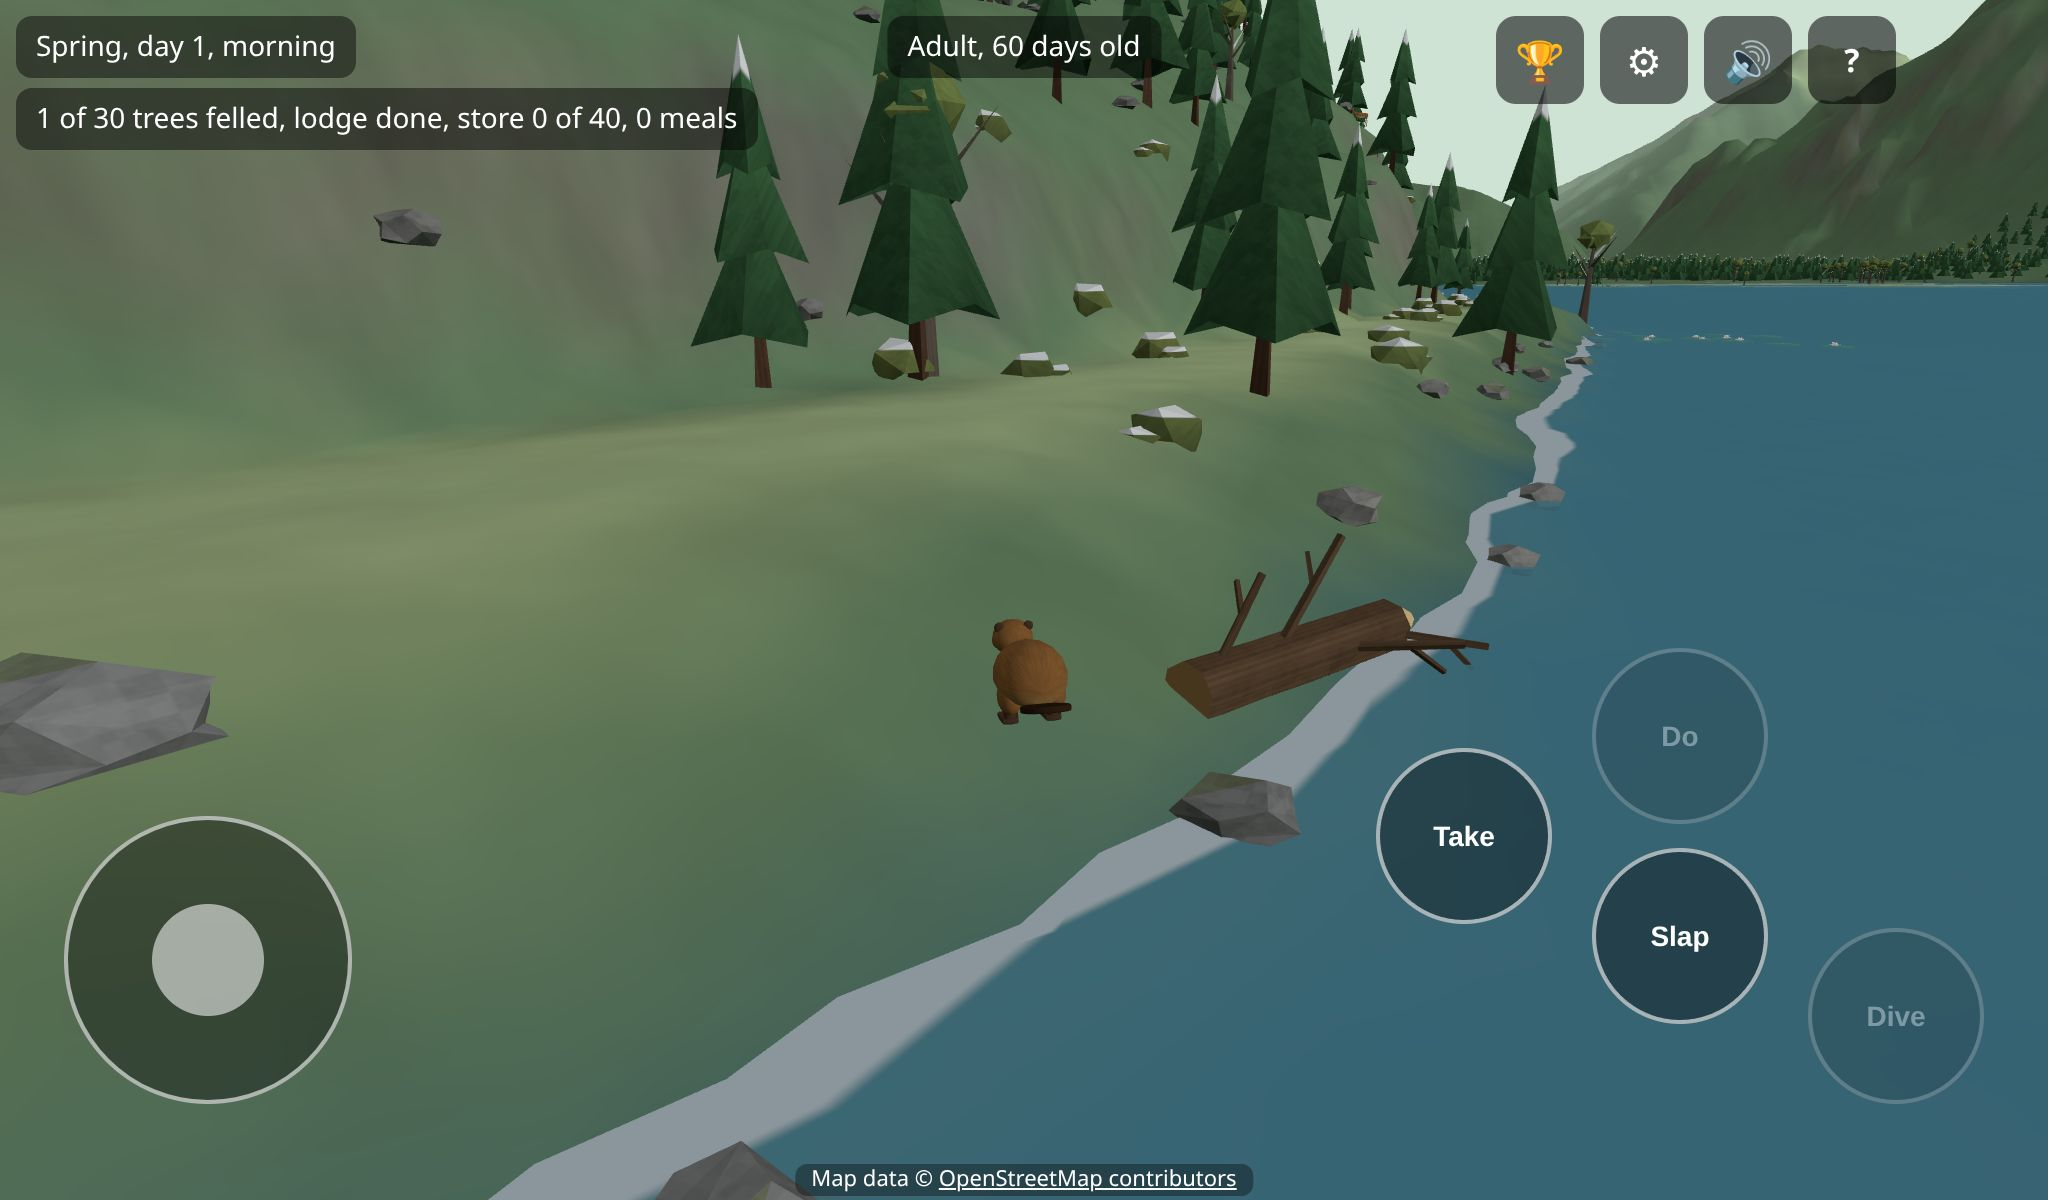
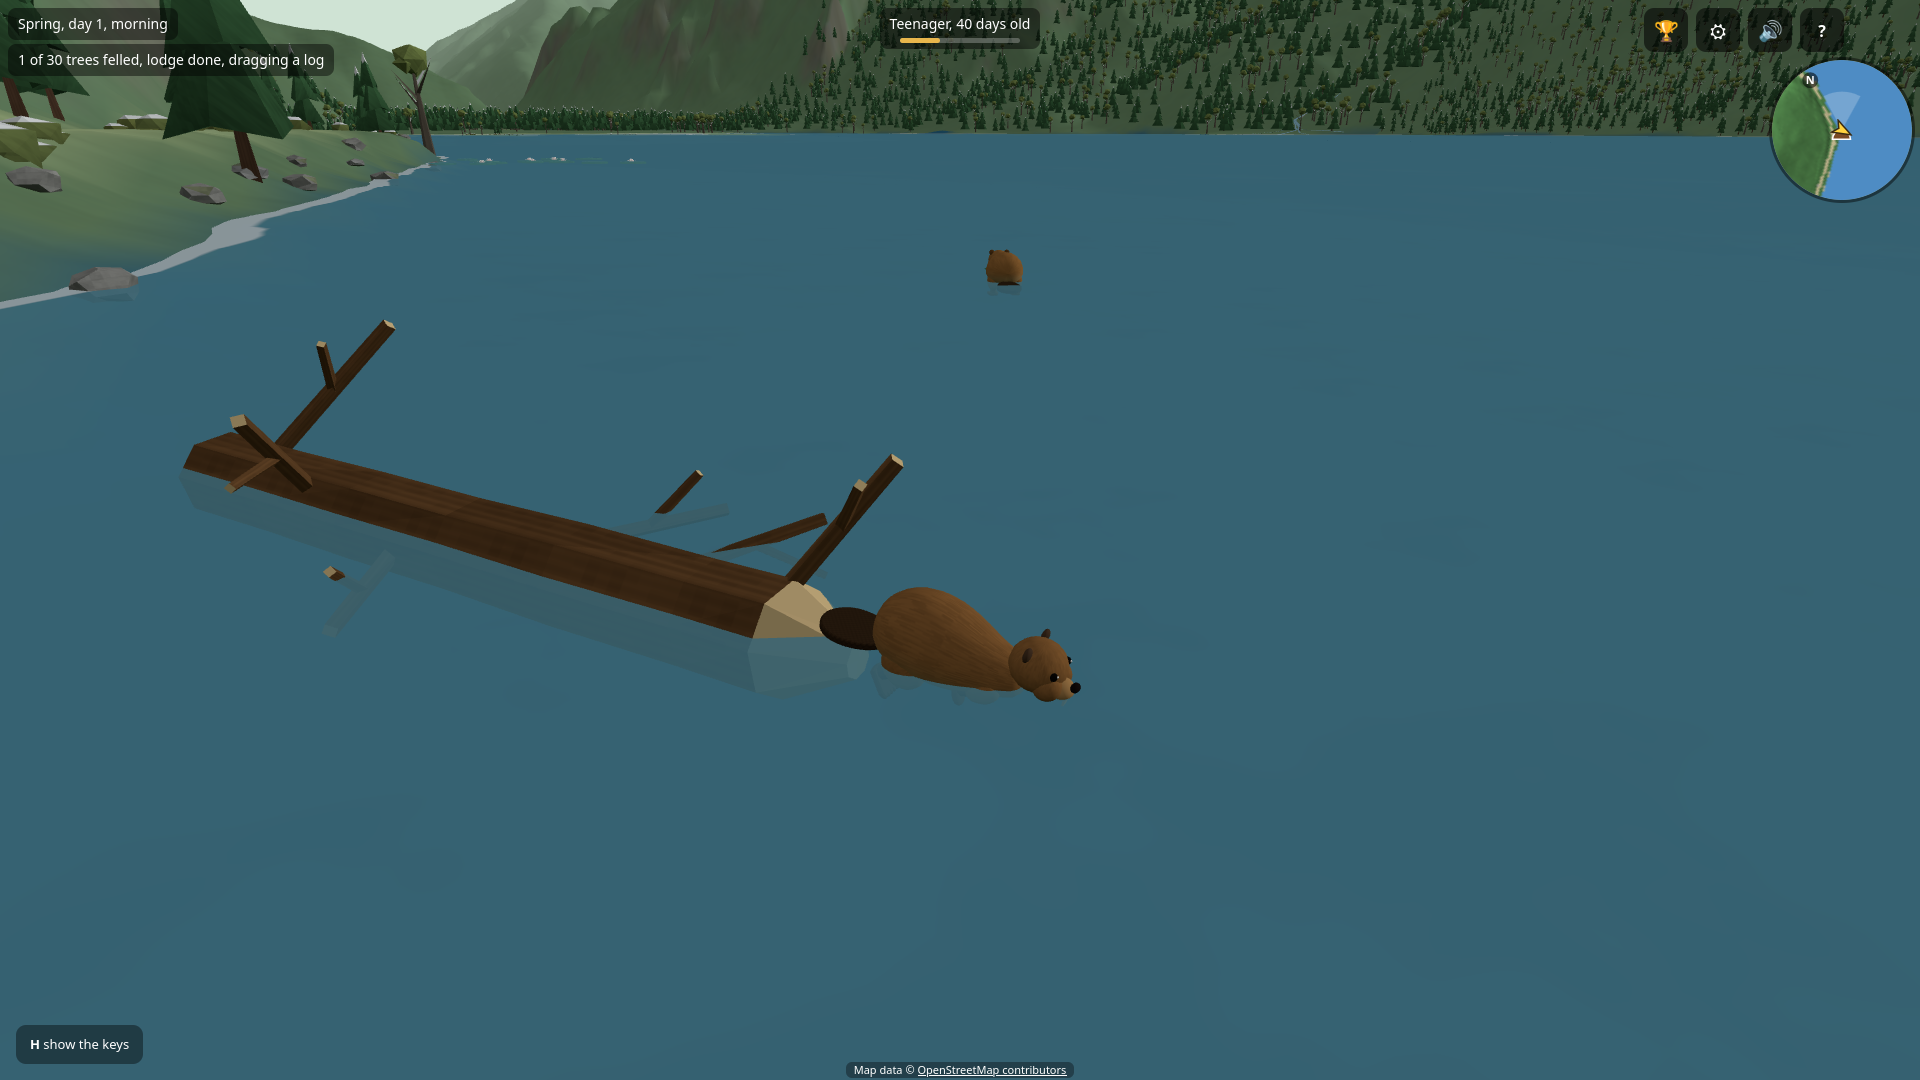
docs: eight tablet screenshots for the Play listing (#445)
Replaces the four screenshots with eight picked by the author, in listing order, and adds the store-shots spec that takes candidates from the real valley.

Claude-Session: https://claude.ai/code/session_01ApLv1ZESU1N7F2tVUofLnJ

diff --git a/tests/e2e/store-shots.spec.ts b/tests/e2e/store-shots.spec.ts
@@ -1,0 +1,144 @@
+/* eslint-disable @typescript-eslint/no-explicit-any */
+import { test } from '@playwright/test';
+import { goToNearestSpot, hasTiles, menuClick, startGame, world } from './helpers';
+// Takes candidate pictures for the Play Store listing from the real valley: the seasons, a dam and its pond, a family, a dream,
+// another place. It does nothing unless STORE_SHOTS names a folder; pick the best by eye and copy them to
+// tools/standalone-apk/store/. Needs the local tiles, about 1 to 2 minutes:
+//   STORE_SHOTS=some/dir npx playwright test tests/e2e/store-shots.spec.ts
+
+const DIR = process.env.STORE_SHOTS;
+
+test.describe('pictures for the store listing', () => {
+  test.skip(!DIR, 'set STORE_SHOTS to a folder to take them');
+  test.use({ viewport: { width: 1024, height: 600 }, deviceScaleFactor: 2 });
+
+  type P = import('@playwright/test').Page;
+  const take = async (page: P, name: string): Promise<void> => {
+    const hide = await page.addStyleTag({ content: 'button[aria-label="Test menu"]{visibility:hidden !important}' });
+    await page.waitForTimeout(500);
+    await page.screenshot({ path: `${DIR}/${name}.png`, type: 'png' });
+    await hide.evaluate((el) => (el as Element).remove());
+  };
+  // Camera `side` radians round from behind the beaver (or from the line to `toward`), tilted by `pitch`, `dist` metres out.
+  const frame = async (page: P, side: number, pitch: number, dist: number, toward?: { x: number; z: number }): Promise<void> => {
+    await page.evaluate(
+      ([s, p, d, t]) => {
+        const g = (window as any).__game;
+        const v = g.view();
+        const b = g.world().beaver;
+        const bearing = t ? Math.atan2((t as any).x - b.x, (t as any).z - b.z) : b.heading;
+        v.yaw = bearing + Math.PI + (s as number);
+        v.pitch = p as number;
+        v.dist = d as number;
+      },
+      [side, pitch, dist, toward ?? null] as const,
+    );
+    await page.waitForTimeout(900);
+  };
+  const season = (page: P, s: string): Promise<void> => menuClick(page, `button[data-season="${s}"]`);
+  const time = (page: P, t: string): Promise<void> => menuClick(page, `button[data-time="${t}"]`);
+
+  test('candidates', async ({ page }) => {
+    test.setTimeout(600_000);
+    await startGame(page, 'touch=1&coach=0');
+    test.skip(!(await hasTiles(page)), 'needs the tiles built locally');
+    await page.waitForTimeout(1500);
+
+    // The seasons round the lodge, the beaver beside it.
+    const w0 = await world(page);
+    const lodge = w0.lodge;
+    for (const [s, t] of [['spring', 'morning'], ['summer', 'noon'], ['autumn', 'evening'], ['winter', 'noon']] as const) {
+      await season(page, s);
+      await time(page, t);
+      await page.waitForTimeout(1500);
+      await frame(page, 0.7, 0.35, 10, lodge);
+      await take(page, `a-${s}-lodge`);
+      await frame(page, 2.4, 0.5, 18, lodge);
+      await take(page, `a-${s}-wide`);
+    }
+
+    // Night in summer.
+    await season(page, 'summer');
+    await time(page, 'night');
+    await page.waitForTimeout(1500);
+    await frame(page, 0.7, 0.35, 10, lodge);
+    await take(page, 'b-night');
+    await time(page, 'evening');
+    await frame(page, 0.7, 0.3, 10, lodge);
+    await take(page, 'b-evening');
+
+    // Family: a kit with its parents.
+    await season(page, 'summer');
+    await time(page, 'morning');
+    await menuClick(page, 'button[data-stage="baby"]');
+    await page.waitForTimeout(1500);
+    await take(page, 'c-baby-lodge');
+    await menuClick(page, 'button[data-stage="teenager"]');
+    await page.waitForTimeout(1500);
+    await take(page, 'c-teenager');
+    const parents = await page.evaluate(() => JSON.parse(JSON.stringify((window as any).__game.parents())));
+    if (parents[0]) {
+      await frame(page, 0.8, 0.3, 7, parents[0]);
+      await take(page, 'c-parent');
+    }
+    await menuClick(page, 'button[data-stage="adult"]');
+    await page.waitForTimeout(1500);
+
+    // A dam and its pond, summer and winter.
+    await goToNearestSpot(page);
+    await menuClick(page, 'button[data-action="dam-fill"]');
+    await menuClick(page, 'button[data-action="dam-fill"]');
+    await menuClick(page, 'button[data-action="dam-fill"]');
+    await page.waitForTimeout(4000);
+    await frame(page, Math.PI / 2, 0.5, 14);
+    await take(page, 'd-dam');
+    await frame(page, 0.4, 0.25, 7);
+    await take(page, 'd-dam-low');
+    await frame(page, Math.PI, 0.6, 30);
+    await take(page, 'd-dam-high');
+    await season(page, 'autumn');
+    await time(page, 'evening');
+    await page.waitForTimeout(1500);
+    await frame(page, Math.PI / 2, 0.4, 12);
+    await take(page, 'd-dam-autumn');
+    await season(page, 'winter');
+    await time(page, 'noon');
+    await page.waitForTimeout(1500);
+    await take(page, 'd-dam-winter');
+
+    await season(page, 'summer');
+    await menuClick(page, 'button[data-action="store-fill"]');
+    await page.waitForTimeout(800);
+    await menuClick(page, 'button[data-fly="map"]');
+    await page.waitForTimeout(2500);
+    await take(page, 'e-map');
+  });
+
+  test('the dream and other places', async ({ page }) => {
+    test.setTimeout(600_000);
+    await startGame(page, 'touch=1&coach=0');
+    test.skip(!(await hasTiles(page)), 'needs the tiles built locally');
+    await page.waitForTimeout(1500);
+    await season(page, 'summer');
+    await time(page, 'morning');
+    await menuClick(page, 'button[data-action="store-fill"]');
+    await page.waitForTimeout(800);
+    await take(page, 'e-store');
+    await menuClick(page, 'button[data-action="dream"]');
+    for (let i = 0; i < 3; i++) {
+      await page.waitForTimeout(4000);
+      await take(page, `f-dream-${i}`);
+    }
+
+    // Other places in the valley.
+    for (const id of ['north', 'south', 'east-oedseen', 'vorderer-springbach', 'hinterer-springbach']) {
+      const before = (await world(page)).beaver;
+      await menuClick(page, `button[data-location="${id}"]`);
+      await page.waitForFunction((b) => { const q = (window as any).__game.world().beaver; return Math.hypot(q.x - b.x, q.z - b.z) > 300; }, before, { polling: 200, timeout: 60_000 }).catch(() => undefined);
+      await page.waitForTimeout(3500);
+      await frame(page, 0.5, 0.35, 12);
+      await take(page, `g-${id}`);
+    }
+    console.log('neighbours', JSON.stringify((await world(page)).neighbours?.length));
+  });
+});

diff --git a/tools/standalone-apk/README.md b/tools/standalone-apk/README.md
@@ -67,7 +67,7 @@ ANDROID_HOME=~/Android/Sdk JAVA_HOME=~/Android/jdk-21 ./build_aab.sh
 ## Store graphics
 
 `store/` holds what the Play listing asks for, taken from the game itself (no art the game does not show): `icon-512.png`,
-`feature-graphic.png` (1024x500, a crop of the lodge shot without the controls), and four tablet screenshots
-(`screenshot-*.png`, 2048x1200). Retake the screenshots when the look changes:
-`MANUAL_SCALE=2 MANUAL_SHOTS=some/dir npx playwright test tests/e2e/manual-shots.spec.ts` (needs the tiles), then use `screen`,
-`pond`, `log` and `tree`.
+`feature-graphic.png` (1024x500, a crop of the lodge shot without the controls), and eight tablet screenshots
+(`screenshot-*.png`, in the order the listing shows them, the first is the one search results show: 1920x1080 play captures and
+one 2048x1200 dam shot). To take new candidates: `STORE_SHOTS=some/dir npx playwright test tests/e2e/store-shots.spec.ts`
+(needs the tiles, 1 to 2 minutes; the seasons, a dam, the family, the dream, the other places), pick by eye, and copy them here.
